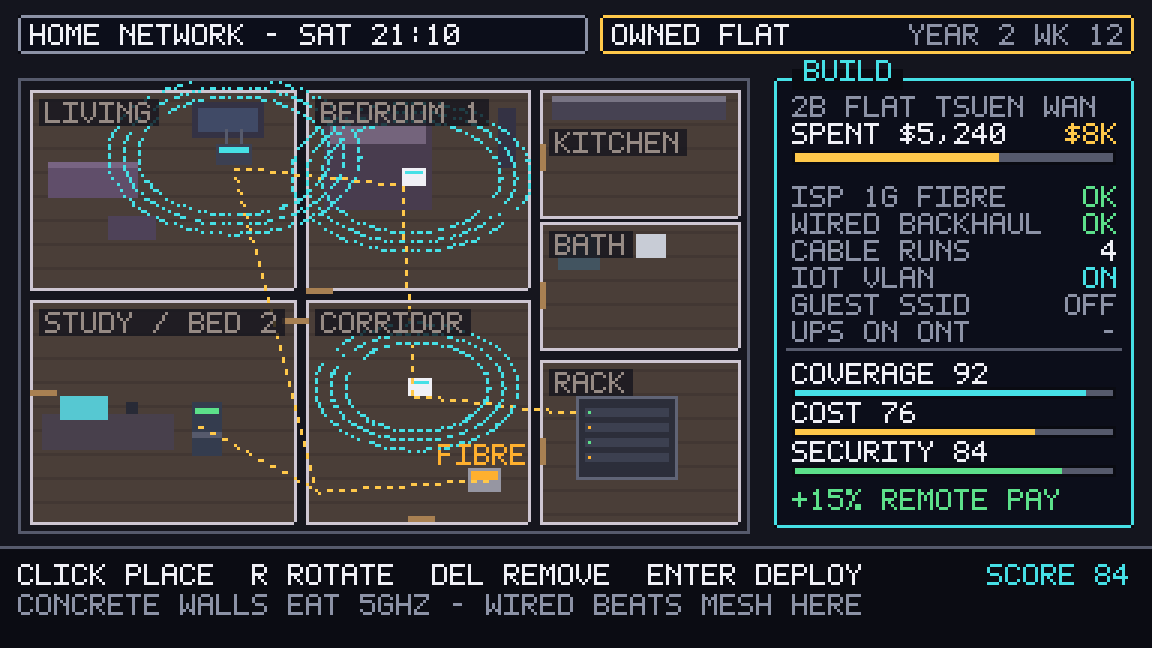
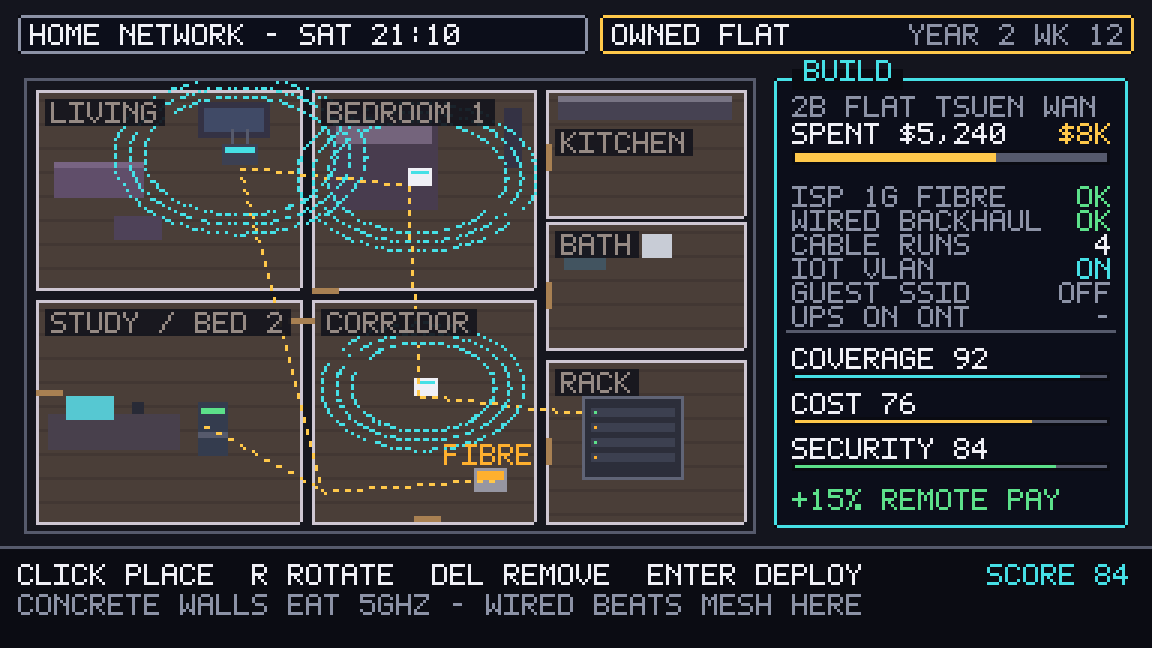
design(layout): visual pass — one grid, and a machine check for off-canvas draws
Added PIXEL_AUDIT=1 to the toolkit: Canvas.set records any write past the
edge. It immediately found a real bug — the overworld HUD drew its energy
cluster 23px past the right edge, so the visible HUD had two numbers.

- overworld: HUD three-number cluster re-derived for 384 (was copied from the
  432-wide iPad scene); district label moved to the HUD row; cross street no
  longer paints to y=228; road dashes stop at the edge
- job screen: prompt at the shared baseline 196, hint 208, hint scrim, laptop
  to the 8px right margin
- hub: title and card off the 14px ad-hoc margin onto 8; side column to 176
  so the right margin matches; window lifted clear of the column
- home sheet: 8px left margin, row spacing 8, score meters 3px at 15px pitch
  (labels no longer collide), room-label plates opaque
- docs/design/layout-spec.md: canvas, 4px unit, 8px margin, vertical anchors,
  type scale, character budget, touch minimums, defect record
- audit runs clean: 0 clipped, 0 unintended bleed

diff --git a/tools/mockup/pixelart.py b/tools/mockup/pixelart.py
@@ -123,6 +123,19 @@ _F = {
 }
 FONT_W, FONT_H, FONT_SP = 5, 7, 1
 
+AUDIT = os.environ.get("PIXEL_AUDIT") == "1"
+AUDIT_LOG: dict[str, list[int]] = {}
+
+
+def audit_report():
+    """right / bottom / left / top overshoot in px, per canvas name."""
+    for name, (r, b, l, t) in sorted(AUDIT_LOG.items()):
+        if r or b:
+            print(f"  CLIPPED {name}: +{r}px right, +{b}px bottom")
+        if l > 8 or t > 8:
+            print(f"  BLEED   {name}: -{l}px left, -{t}px top (check it is deliberate)")
+    AUDIT_LOG.clear()
+
 
 def text_width(s: str, scale: int = 1) -> int:
     return max(0, len(s) * (FONT_W + FONT_SP) * scale - FONT_SP * scale)
@@ -145,13 +158,26 @@ def cjk_text(text: str, size: int = 12, color=None, threshold: int = 96) -> Imag
 
 
 class Canvas:
-    def __init__(self, w: int = 384, h: int = 216, bg=None):
+    def __init__(self, w: int = 384, h: int = 216, bg=None, name: str = ""):
+        self.name = name or "canvas"
         self.w, self.h = w, h
         self.img = Image.new("RGBA", (w, h), bg or P["night0"])
         self.px = self.img.load()
 
     # -- primitives ---------------------------------------------------------
     def set(self, x, y, c):
+        if AUDIT and not (0 <= x < self.w and 0 <= y < self.h):
+            # layout QA: anything drawn past the canvas edge never reaches the player
+            AUDIT_LOG.setdefault(self.name, [0, 0, 0, 0])
+            rec = AUDIT_LOG[self.name]
+            if x >= self.w:
+                rec[0] = max(rec[0], int(x) - self.w + 1)
+            if y >= self.h:
+                rec[1] = max(rec[1], int(y) - self.h + 1)
+            if x < 0:
+                rec[2] = max(rec[2], -int(x))
+            if y < 0:
+                rec[3] = max(rec[3], -int(y))
         if 0 <= x < self.w and 0 <= y < self.h:
             self.px[int(x), int(y)] = c
 

diff --git a/tools/mockup/scene_hub.py b/tools/mockup/scene_hub.py
@@ -26,12 +26,12 @@ def room(rng) -> Canvas:
     c.hline(0, 170, W, (86, 62, 44, 255))
 
     # window onto the street: rain and neon spill
-    c.rect(236, 16, 140, 54, (18, 22, 36, 255))
-    c.frame(236, 16, 140, 54, (70, 66, 62, 255))
+    c.rect(236, 12, 140, 50, (18, 22, 36, 255))
+    c.frame(236, 12, 140, 50, (70, 66, 62, 255))
     for _ in range(70):
-        c.set(rng.randrange(240, 372), rng.randrange(20, 66), (110, 140, 170, 255))
-    c.alpha_rect(240, 50, 132, 18, (255, 90, 150), 34)
-    c.vline(306, 16, 54, (70, 66, 62, 255))
+        c.set(rng.randrange(240, 372), rng.randrange(16, 60), (110, 140, 170, 255))
+    c.alpha_rect(240, 44, 132, 16, (255, 90, 150), 34)
+    c.vline(306, 12, 50, (70, 66, 62, 255))
 
     # one chair, so the floor is not empty
     c.rect(332, 150, 34, 40, (40, 36, 48, 255))
@@ -43,14 +43,14 @@ def room(rng) -> Canvas:
 
 
 def title(c: Canvas):
-    c.text(14, 24, "netlife", P["white"], scale=3)
-    c.text(16, 50, "hong kong", P["grey"])
-    c.text(16, 60, "season 2  -  week 4", P["neon_cyan"])
+    c.text(8, 24, "netlife", P["white"], scale=3)
+    c.text(10, 50, "hong kong", P["grey"])
+    c.text(10, 60, "season 2  -  week 4", P["neon_cyan"])
 
 
 def continue_card(c: Canvas):
     """The one next action, in words a person can act on."""
-    x, y, w, h = 14, 74, 176, 66
+    x, y, w, h = 8, 74, 176, 66
     ui.scrim(c, x, y, w, h, 225)
     c.rect(x, y, 3, h, P["neon_amber"])
     c.text(x + 10, y + 5, "continue", P["neon_amber"])
@@ -65,7 +65,7 @@ def continue_card(c: Canvas):
 
 def side(c: Canvas):
     x, y = 200, 74
-    ui.scrim(c, x, y - 4, 182, 70, 215)
+    ui.scrim(c, x, y - 4, 176, 70, 215)
     c.text(x + 4, y, "on now", P["grey"])
     c.text(x + 46, y, "3 players", P["white"])
     c.text(x + 4, y + 10, "momentum", P["grey"])

diff --git a/tools/mockup/scene_home.py b/tools/mockup/scene_home.py
@@ -131,13 +131,13 @@ def plan() -> Canvas:
     coverage(p, 133, 103, 34, (70, 224, 230, 255))
 
     for (x, y, label) in ROOM_LABELS:
-        p.alpha_rect(x, y, len(label) * 6 + 4, 9, (22, 22, 30), 205)
+        p.alpha_rect(x, y, len(label) * 6 + 4, 9, (22, 22, 30), 238)
         p.text(x + 2, y + 1, label, LBL)
     return p
 
 
 def right_panel(c: Canvas):
-    x, y, w, h = 258, 26, 120, 150
+    x, y, w, h = 258, 26, 118, 150
     c.panel(x, y, w, h, border=P["neon_cyan"], title="build", title_c=P["neon_cyan"])
     c.text(x + 6, y + 6, "2b flat tsuen wan", P["grey"])
     c.text(x + 6, y + 15, "spent $5,240", P["white"])
@@ -156,16 +156,16 @@ def right_panel(c: Canvas):
     for (label, val, col) in rows:
         c.text(x + 6, ry, label, P["grey"])
         c.text_r(x + w - 6, ry, val, col)
-        ry += 9
+        ry += 8
 
     c.hline(x + 4, ry, w - 8, P["grey_dk"])
-    ry += 5
+    ry += 6
     for (label, pct, col) in (("coverage 92", 0.92, P["neon_cyan"]),
                               ("cost 76", 0.76, P["gold"]),
                               ("security 84", 0.84, P["neon_green"])):
         c.text(x + 6, ry, label, P["white"])
-        c.meter(x + 6, ry + 8, w - 12, 4, pct, col)
-        ry += 13
+        c.meter(x + 6, ry + 8, w - 12, 3, pct, col)
+        ry += 15
 
     c.text(x + 6, y + h - 13, "+15% remote pay", P["neon_green"])
 
@@ -190,8 +190,8 @@ def bottom(c: Canvas):
 def main():
     c = Canvas(W, H, P["night0"])
     c.rect(0, 0, W, H, (20, 21, 30, 255))
-    c.paste(plan(), 6, 26)
-    c.frame(6, 26, 244, 152, P["grey_dk"])
+    c.paste(plan(), 8, 26)
+    c.frame(8, 26, 244, 152, P["grey_dk"])
     top(c)
     right_panel(c)
     bottom(c)

diff --git a/tools/mockup/scene_world.py b/tools/mockup/scene_world.py
@@ -42,7 +42,7 @@ def road(c: Canvas, x, y, w, h, vertical=False):
     c.rect(x, y, w, h, ASPH)
     c.dither(x, y, w, h, ASPH_2, 3)
     if vertical:
-        for ty in range(y, y + h, 16):
+        for ty in range(y, y + h - 7, 16):
             c.rect(x + w // 2 - 1, ty, 2, 8, (200, 194, 150, 255))
         c.vline(x, y, h, CURB)
         c.vline(x + w - 1, y, h, CURB)
@@ -150,7 +150,7 @@ def render(with_wire=True) -> Canvas:
     sidewalk(c, 0, ROAD_Y + 36, W, 12)                 # south walk
     road(c, 0, ROAD_Y, W, 36)
     c.rect(ROAD_X, 0, 36, H, ASPH)                      # cross street
-    road(c, ROAD_X, ROAD_Y - 12, 36, ROAD_Y + 48, vertical=True)
+    road(c, ROAD_X, ROAD_Y - 12, 36, H - (ROAD_Y - 12), vertical=True)
     sidewalk(c, ROAD_X - 12, 0, 12, H)
     sidewalk(c, ROAD_X + 36, 0, 12, H)
 
@@ -204,11 +204,14 @@ def render(with_wire=True) -> Canvas:
                  w=W, queue=(4, 1), dwell=0.4)
         y = 16 + wire.H
         ui.scrim(c, 0, y - 4, W, 14, 150)
-        c.text(300, y, "18:40", P["white"])
-        c.text(342, y, "$1,280", P["gold"])
-        ui.energy(c, 388, y, 3)
+        ui.scrim(c, 0, y - 4, 112, 14, 165)
+        c.text(8, y, "sham shui po", P["grey"])
+        c.text(274, y, "18:40", P["white"])
+        c.text(312, y, "$1,280", P["gold"])
+        ui.bolt(c, 352, y - 1)
+        ui.energy(c, 358, y, 3)
         ui.prompt(c, 196, ["[e] talk to chan tai", "[m] map", "[tab] jobs"], active=0)
-        c.text_r(376, 187, "sham shui po", P["grey"])
+
     return c
 
 

diff --git a/tools/mockup/scene_console.py b/tools/mockup/scene_console.py
@@ -85,7 +85,7 @@ def cafe(rng) -> Canvas:
 
 def laptop(c: Canvas):
     """The one surface allowed a border: your screen, sitting on the counter."""
-    x, y, w, h = 104, 40, 268, 122
+    x, y, w, h = 104, 38, 272, 124
     c.rect(x, y, w, h, (28, 30, 38, 255))
     c.rect(x + 2, y + 2, w - 4, h - 4, (10, 12, 18, 255))
     c.hline(x, y, w, (86, 90, 110, 255))
@@ -135,9 +135,10 @@ def main():
     ticket(c)
     note(c)
     laptop(c)
-    ui.prompt(c, 190, ["[1] wrong mask", "[2] not forwarding", "[3] printer"],
+    ui.prompt(c, 196, ["[1] wrong mask", "[2] not forwarding", "[3] printer"],
               active=1, gap=18)
-    c.text(8, 205, "h  call the master  -$80", P["grey"])
+    ui.scrim(c, 0, 204, W, 12, 208)
+    c.text(8, 208, "h  call the master  -$80", P["grey"])
     c.save("02-job-console.png", scale=3)
 
 

diff --git a/tools/mockup/build.py b/tools/mockup/build.py
@@ -13,5 +13,8 @@ import scene_wire      # noqa: E402
 import scene_ipad      # noqa: E402
 import scene_hub       # noqa: E402
 
+from pixelart import audit_report  # noqa: E402
+
 for mod in (scene_world, scene_console, scene_home, scene_progress, scene_wire, scene_ipad, scene_hub):
     mod.main()
+    audit_report()

diff --git a/docs/design/layout-spec.md b/docs/design/layout-spec.md
@@ -1,0 +1,87 @@
+# Layout spec
+
+The numbers every screen is drawn to. If a mockup disagrees with this file, the mockup is wrong.
+
+## Canvas
+
+| | |
+|---|---|
+| Native size | **384 × 216** (16:9). iPad: fixed 384 width, fluid height 216–272 |
+| Scale | integer only — 3× for docs, 3–4× on device, `Image.NEAREST` |
+| Tile (overworld) | 12 px → 32 × 18 tiles visible |
+| Unit of alignment | **4 px**; everything lands on it |
+
+## Margins and gutters
+
+| Zone | Value |
+|---|---|
+| Screen margin (left/right/top) | **8 px** |
+| Screen margin (bottom, above prompt) | 8 px |
+| Gutter between two columns | 6–8 px |
+| Panel/scrim inner padding | 4–6 px |
+| Gap between stacked text rows | 1 px (7 px line + 1) |
+
+## Vertical anchors
+
+| Band | Y | Content |
+|---|---|---|
+| Wire | 0–10 | hairline headline strip, always full width |
+| HUD row | 12–26 | district name left; clock, money, energy right; all at `y = 16` |
+| Content | 26–190 | the screen's one focus surface |
+| Prompt | **196** | one line, active option marked with a 3 px caret |
+| Hint | **208** | secondary key, grey, optional |
+
+Nothing is placed between 190 and 196 except the prompt's own scrim. The prompt baseline is the same on every screen; a screen with a different one is a bug.
+
+## Type
+
+| Use | Spec |
+|---|---|
+| Body, HUD values, prompts | 5×7, scale 1 (6 px advance) |
+| Section heading | scale 2 (10 px per glyph, 12 px advance) |
+| Title / logo | scale 3 |
+| 繁體 signage | Noto Sans CJK Bold, 10–13 px, thresholded to 1 bit, on a dark plate |
+| 繁體 names on paper | 12 px on a light paper tab — white-on-dark blobs its strokes |
+
+Character budget: `(width − padding) // 6`. A 176 px card holds 26 characters; a full-width line holds 62. Write the copy to the budget, never widen a panel to fit a sentence.
+
+## Objects vs panels
+
+- **Panels are gone.** A thing gets an edge only if it is physical: paper (ticket, save card), a sticky note, your laptop screen, a sign.
+- Everything else sits on a **scrim** (`ui.scrim`, 150–238 alpha) with no border.
+- Numbers that are not tiles or objects get no box at all — bare text.
+
+## Touch (iPad)
+
+| Element | Minimum |
+|---|---|
+| Action bar segment | 24 px tall (≈70 pt) |
+| Icon button | 20 × 20 px (≈60 pt) |
+| Hit slop around small controls | 6 px |
+| Safe inset (top and bottom) | 8 px — nothing tappable inside |
+
+## Checks before a mockup is accepted
+
+```bash
+PIXEL_AUDIT=1 python3 tools/mockup/build.py
+```
+
+Prints anything drawn past the canvas edge (`CLIPPED`) and deliberate bleed (`BLEED`). A `CLIPPED` line is always a bug: it means content the player was supposed to see never reached the screen.
+
+Then, by eye:
+
+1. Hide the UI in your head — can you say what the next action is? (§7.1 5-second test)
+2. Any two elements closer than 4 px that are not the same group.
+3. Every text run inside its container's character budget.
+4. Screen margins equal on all four sides.
+
+## Defects found in the visual pass (kept as a record)
+
+| Screen | Defect | Cause |
+|---|---|---|
+| Overworld | Energy cluster drawn **23 px past the right edge** — visible HUD had two numbers, not three | coordinates copied from the 432-wide iPad scene into a 384-wide one |
+| Overworld | Cross-street painted to y = 228 | road length written as a constant instead of `H - y` |
+| Job screen | Prompt sat at y = 190, hint at 205 | no shared baseline |
+| Hub | Title and card on a 14 px margin | ad-hoc margin |
+| Home network | Three score labels collided with their meters; room labels showed signal rings through the plate | row spacing 9 vs panel height; plate alpha 205 |
+| Wire sheet | Sample spacing inherited from the old 12 px strip | strip slimmed to 10 px, coordinates not re-derived |

diff --git a/README.md b/README.md
@@ -13,6 +13,7 @@ accept is a real networking task, scored.
 ## Read this first
 
 - **[Game design document](docs/design/game-design-document.md)** — pillars, systems, curriculum mapping, demo scope, risks, open questions.
+- **[Layout spec](docs/design/layout-spec.md)** — the grid every screen is drawn to, and the defects the visual pass caught.
 
 ## Visual direction
 
@@ -31,7 +32,8 @@ All mockups are generated pixel art (native 384×216, 3× upscale), not AI image
 Regenerate them:
 
 ```bash
-python3 tools/mockup/build.py     # needs Pillow + Noto Sans CJK HK
+python3 tools/mockup/build.py                     # needs Pillow + Noto Sans CJK HK
+PIXEL_AUDIT=1 python3 tools/mockup/build.py       # also reports anything drawn off-canvas
 ```
 
 `tools/mockup/pixelart.py` holds the canonical palette and the 5×7 bitmap font,

diff --git a/docs/design/game-design-document.md b/docs/design/game-design-document.md
@@ -328,6 +328,8 @@ The first pass at these mockups was a dashboard: eleven bordered panels, five HU
 
 **The 5-second test** applies to every screen before it ships: hide the UI, ask a student who has not played what they would do next. If they cannot say, the screen has too much on it — and the fix is deletion, not another tooltip.
 
+The numbers these rules resolve to — margins, anchors, type scale, touch minimums, and the character budget — live in [`layout-spec.md`](layout-spec.md), with `PIXEL_AUDIT=1` as the machine check for anything drawn off-canvas.
+
 Concretely, what that removed:
 
 | Cut | Was | Now |
